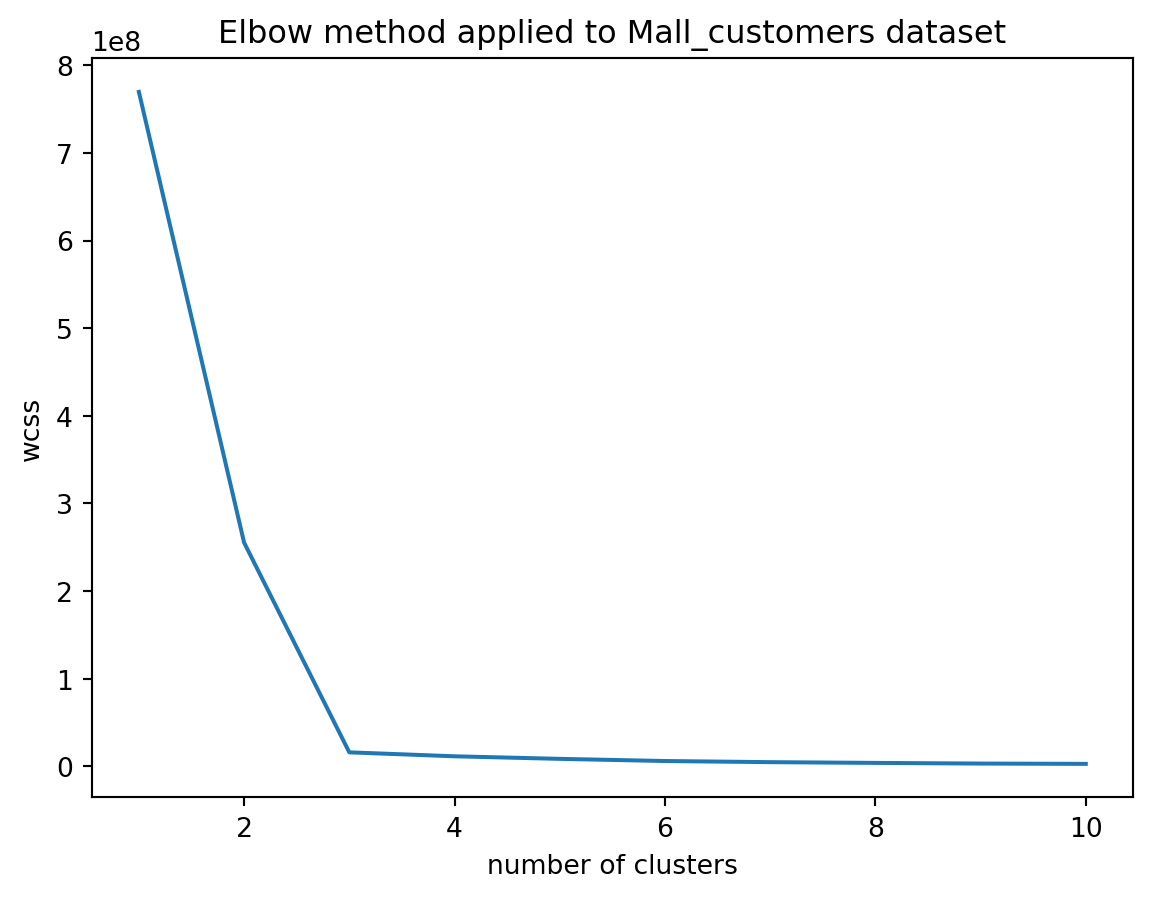
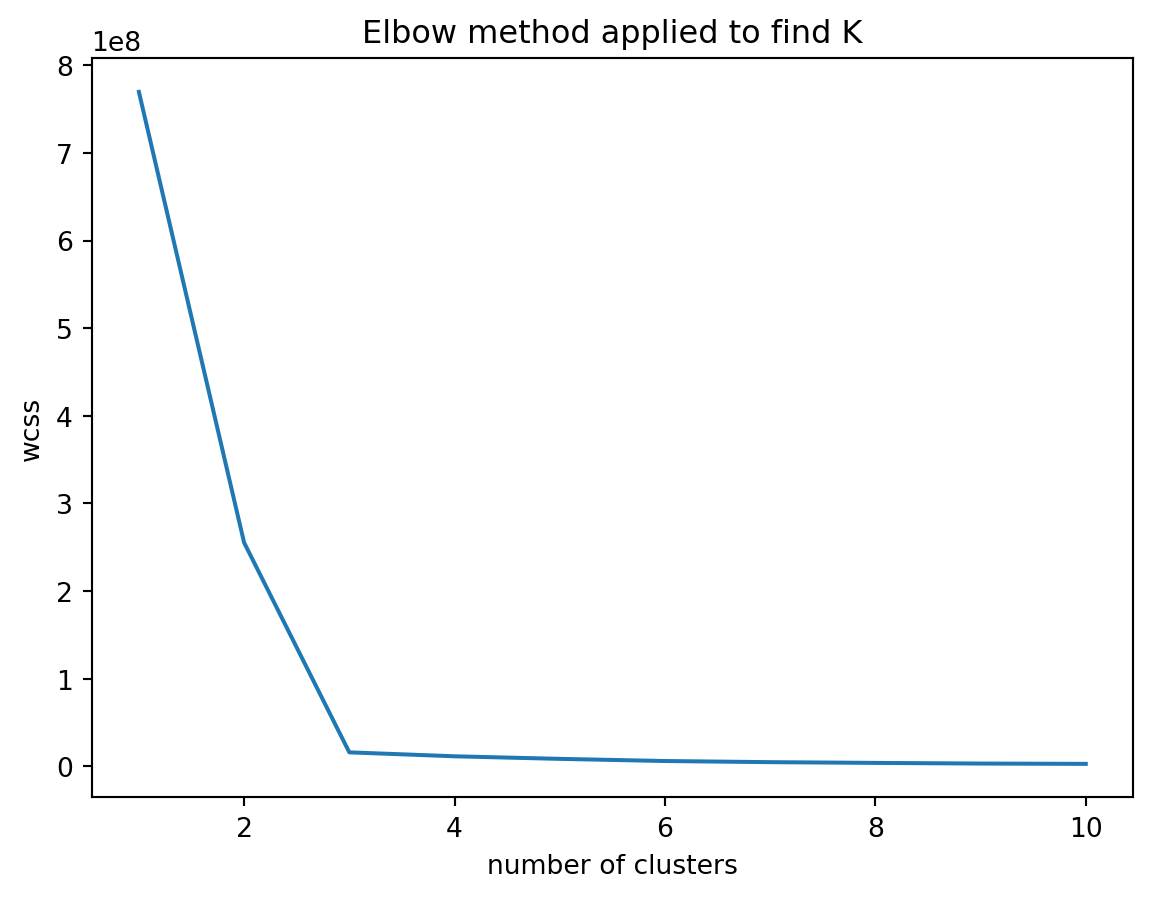
w

Changed region(s): [[0.1875, 0.0, 0.875, 0.0624]]

diff --git a/docs/clustering/1.2 k mean Clustering.html b/docs/clustering/1.2 k mean Clustering.html
@@ -7,7 +7,7 @@
 <meta name="viewport" content="width=device-width, initial-scale=1.0, user-scalable=yes">
 
 
-<title>Scikit learn with Python - K mean Clustering</title>
+<title>Scikit learn with Python - K mean Clustering with image</title>
 <style>
 code{white-space: pre-wrap;}
 span.smallcaps{font-variant: small-caps;}
@@ -346,7 +346,7 @@ pre > code.sourceCode > span > a:first-child::before { text-decoration: underlin
   </li>  
         <li>
     <a class="dropdown-item" href="../clustering/1.2 k mean Clustering.html">
- <span class="dropdown-text">K mean Clustering</span></a>
+ <span class="dropdown-text">K mean Clustering with image</span></a>
   </li>  
         <li>
     <a class="dropdown-item" href="../clustering/2 Hierarchical Clustering.html">
@@ -369,7 +369,7 @@ pre > code.sourceCode > span > a:first-child::before { text-decoration: underlin
       <button type="button" class="quarto-btn-toggle btn" data-bs-toggle="collapse" data-bs-target=".quarto-sidebar-collapse-item" aria-controls="quarto-sidebar" aria-expanded="false" aria-label="Toggle sidebar navigation" onclick="if (window.quartoToggleHeadroom) { window.quartoToggleHeadroom(); }">
         <i class="bi bi-layout-text-sidebar-reverse"></i>
       </button>
-        <nav class="quarto-page-breadcrumbs" aria-label="breadcrumb"><ol class="breadcrumb"><li class="breadcrumb-item"><a href="../clustering/0 Mall Customers.html">Clustering</a></li><li class="breadcrumb-item"><a href="../clustering/1.2 k mean Clustering.html">K mean Clustering</a></li></ol></nav>
+        <nav class="quarto-page-breadcrumbs" aria-label="breadcrumb"><ol class="breadcrumb"><li class="breadcrumb-item"><a href="../clustering/0 Mall Customers.html">Clustering</a></li><li class="breadcrumb-item"><a href="../clustering/1.2 k mean Clustering.html">K mean Clustering with image</a></li></ol></nav>
         <a class="flex-grow-1" role="button" data-bs-toggle="collapse" data-bs-target=".quarto-sidebar-collapse-item" aria-controls="quarto-sidebar" aria-expanded="false" aria-label="Toggle sidebar navigation" onclick="if (window.quartoToggleHeadroom) { window.quartoToggleHeadroom(); }">      
         </a>
     </div>
@@ -405,7 +405,7 @@ pre > code.sourceCode > span > a:first-child::before { text-decoration: underlin
           <li class="sidebar-item">
   <div class="sidebar-item-container"> 
   <a href="../clustering/1.2 k mean Clustering.html" class="sidebar-item-text sidebar-link active">
- <span class="menu-text">K mean Clustering</span></a>
+ <span class="menu-text">K mean Clustering with image</span></a>
   </div>
 </li>
           <li class="sidebar-item">
@@ -447,9 +447,9 @@ pre > code.sourceCode > span > a:first-child::before { text-decoration: underlin
 <!-- main -->
 <main class="content" id="quarto-document-content">
 
-<header id="title-block-header" class="quarto-title-block default"><nav class="quarto-page-breadcrumbs quarto-title-breadcrumbs d-none d-lg-block" aria-label="breadcrumb"><ol class="breadcrumb"><li class="breadcrumb-item"><a href="../clustering/0 Mall Customers.html">Clustering</a></li><li class="breadcrumb-item"><a href="../clustering/1.2 k mean Clustering.html">K mean Clustering</a></li></ol></nav>
+<header id="title-block-header" class="quarto-title-block default"><nav class="quarto-page-breadcrumbs quarto-title-breadcrumbs d-none d-lg-block" aria-label="breadcrumb"><ol class="breadcrumb"><li class="breadcrumb-item"><a href="../clustering/0 Mall Customers.html">Clustering</a></li><li class="breadcrumb-item"><a href="../clustering/1.2 k mean Clustering.html">K mean Clustering with image</a></li></ol></nav>
 <div class="quarto-title">
-<div class="quarto-title-block"><div><h1 class="title">K mean Clustering</h1><button type="button" class="btn code-tools-button dropdown-toggle" id="quarto-code-tools-menu" data-bs-toggle="dropdown" aria-expanded="false"><i class="bi"></i> Code</button><ul class="dropdown-menu dropdown-menu-end" aria-labelelledby="quarto-code-tools-menu"><li><a id="quarto-show-all-code" class="dropdown-item" href="javascript:void(0)" role="button">Show All Code</a></li><li><a id="quarto-hide-all-code" class="dropdown-item" href="javascript:void(0)" role="button">Hide All Code</a></li><li><hr class="dropdown-divider"></li><li><a id="quarto-view-source" class="dropdown-item" href="javascript:void(0)" role="button">View Source</a></li></ul></div></div>
+<div class="quarto-title-block"><div><h1 class="title">K mean Clustering with image</h1><button type="button" class="btn code-tools-button dropdown-toggle" id="quarto-code-tools-menu" data-bs-toggle="dropdown" aria-expanded="false"><i class="bi"></i> Code</button><ul class="dropdown-menu dropdown-menu-end" aria-labelelledby="quarto-code-tools-menu"><li><a id="quarto-show-all-code" class="dropdown-item" href="javascript:void(0)" role="button">Show All Code</a></li><li><a id="quarto-hide-all-code" class="dropdown-item" href="javascript:void(0)" role="button">Hide All Code</a></li><li><hr class="dropdown-divider"></li><li><a id="quarto-view-source" class="dropdown-item" href="javascript:void(0)" role="button">View Source</a></li></ul></div></div>
 <p class="subtitle lead">with image data</p>
 </div>
 
@@ -467,11 +467,11 @@ pre > code.sourceCode > span > a:first-child::before { text-decoration: underlin
 </header>
 
 
-<p>Using K mean Clustering to filter below picture</p>
+<p>Using K mean Clustering to replace colow on below picture</p>
 <p><img src="python logo.jpg" class="img-fluid" width="300"></p>
 <section id="load-package" class="level1" data-number="1">
 <h1 data-number="1"><span class="header-section-number">1</span> load package</h1>
-<div id="1aca0285" class="cell" data-execution_count="1">
+<div id="b171a104" class="cell" data-execution_count="1">
 <details open="" class="code-fold">
 <summary>Code</summary>
 <div class="sourceCode cell-code" id="cb1"><pre class="sourceCode python code-with-copy"><code class="sourceCode python"><span id="cb1-1"><a href="#cb1-1" aria-hidden="true" tabindex="-1"></a><span class="im">import</span> pandas <span class="im">as</span> pd</span>
@@ -491,7 +491,7 @@ pre > code.sourceCode > span > a:first-child::before { text-decoration: underlin
 <h1 data-number="2"><span class="header-section-number">2</span> data</h1>
 <section id="input-data" class="level2" data-number="2.1">
 <h2 data-number="2.1" class="anchored" data-anchor-id="input-data"><span class="header-section-number">2.1</span> input data</h2>
-<div id="c12fb8de" class="cell" data-execution_count="2">
+<div id="c93c25ae" class="cell" data-execution_count="2">
 <details open="" class="code-fold">
 <summary>Code</summary>
 <div class="sourceCode cell-code" id="cb2"><pre class="sourceCode python code-with-copy"><code class="sourceCode python"><span id="cb2-1"><a href="#cb2-1" aria-hidden="true" tabindex="-1"></a><span class="im">from</span> PIL <span class="im">import</span> Image</span>
@@ -508,7 +508,7 @@ pre > code.sourceCode > span > a:first-child::before { text-decoration: underlin
 RGB</code></pre>
 </div>
 </div>
-<div id="e9cacb41" class="cell" data-execution_count="3">
+<div id="e221275d" class="cell" data-execution_count="3">
 <details open="" class="code-fold">
 <summary>Code</summary>
 <div class="sourceCode cell-code" id="cb4"><pre class="sourceCode python code-with-copy"><code class="sourceCode python"><span id="cb4-1"><a href="#cb4-1" aria-hidden="true" tabindex="-1"></a><span class="co"># Read in the image</span></span>
@@ -527,7 +527,7 @@ RGB</code></pre>
 </div>
 </div>
 </div>
-<div id="145fb390" class="cell" data-execution_count="4">
+<div id="b8fd856c" class="cell" data-execution_count="4">
 <details open="" class="code-fold">
 <summary>Code</summary>
 <div class="sourceCode cell-code" id="cb5"><pre class="sourceCode python code-with-copy"><code class="sourceCode python"><span id="cb5-1"><a href="#cb5-1" aria-hidden="true" tabindex="-1"></a><span class="im">import</span> numpy <span class="im">as</span> np</span>
@@ -538,7 +538,7 @@ RGB</code></pre>
 <span id="cb5-6"><a href="#cb5-6" aria-hidden="true" tabindex="-1"></a>w,h,c <span class="op">=</span> sample_img.shape</span></code><button title="Copy to Clipboard" class="code-copy-button"><i class="bi"></i></button></pre></div>
 </details>
 </div>
-<div id="2f4839cc" class="cell" data-execution_count="5">
+<div id="3462b66b" class="cell" data-execution_count="5">
 <details open="" class="code-fold">
 <summary>Code</summary>
 <div class="sourceCode cell-code" id="cb6"><pre class="sourceCode python code-with-copy"><code class="sourceCode python"><span id="cb6-1"><a href="#cb6-1" aria-hidden="true" tabindex="-1"></a>w</span>
@@ -549,7 +549,7 @@ RGB</code></pre>
 <pre><code>3</code></pre>
 </div>
 </div>
-<div id="a0467241" class="cell" data-execution_count="6">
+<div id="ea432a3c" class="cell" data-execution_count="6">
 <details open="" class="code-fold">
 <summary>Code</summary>
 <div class="sourceCode cell-code" id="cb8"><pre class="sourceCode python code-with-copy"><code class="sourceCode python"><span id="cb8-1"><a href="#cb8-1" aria-hidden="true" tabindex="-1"></a>sample_img.shape</span></code><button title="Copy to Clipboard" class="code-copy-button"><i class="bi"></i></button></pre></div>
@@ -558,13 +558,13 @@ RGB</code></pre>
 <pre><code>(235, 214, 3)</code></pre>
 </div>
 </div>
-<div id="e03969c5" class="cell" data-execution_count="7">
+<div id="873d07be" class="cell" data-execution_count="7">
 <details open="" class="code-fold">
 <summary>Code</summary>
 <div class="sourceCode cell-code" id="cb10"><pre class="sourceCode python code-with-copy"><code class="sourceCode python"><span id="cb10-1"><a href="#cb10-1" aria-hidden="true" tabindex="-1"></a>sample_img <span class="op">=</span> sample_img.reshape(w<span class="op">*</span>h,<span class="dv">3</span>)</span></code><button title="Copy to Clipboard" class="code-copy-button"><i class="bi"></i></button></pre></div>
 </details>
 </div>
-<div id="22f8a83d" class="cell" data-execution_count="8">
+<div id="0997d2e6" class="cell" data-execution_count="8">
 <details open="" class="code-fold">
 <summary>Code</summary>
 <div class="sourceCode cell-code" id="cb11"><pre class="sourceCode python code-with-copy"><code class="sourceCode python"><span id="cb11-1"><a href="#cb11-1" aria-hidden="true" tabindex="-1"></a>sample_img.shape</span></code><button title="Copy to Clipboard" class="code-copy-button"><i class="bi"></i></button></pre></div>
@@ -573,7 +573,7 @@ RGB</code></pre>
 <pre><code>(50290, 3)</code></pre>
 </div>
 </div>
-<div id="5c55736e" class="cell" data-execution_count="9">
+<div id="aa366aa0" class="cell" data-execution_count="9">
 <details open="" class="code-fold">
 <summary>Code</summary>
 <div class="sourceCode cell-code" id="cb13"><pre class="sourceCode python code-with-copy"><code class="sourceCode python"><span id="cb13-1"><a href="#cb13-1" aria-hidden="true" tabindex="-1"></a>x<span class="op">=</span>sample_img</span></code><button title="Copy to Clipboard" class="code-copy-button"><i class="bi"></i></button></pre></div>
@@ -583,14 +583,14 @@ RGB</code></pre>
 </section>
 <section id="find-the-best-k-group" class="level1" data-number="3">
 <h1 data-number="3"><span class="header-section-number">3</span> find the best k group</h1>
-<div id="c82c1854" class="cell" data-execution_count="10">
+<div id="04fc0725" class="cell" data-execution_count="10">
 <details open="" class="code-fold">
 <summary>Code</summary>
 <div class="sourceCode cell-code" id="cb14"><pre class="sourceCode python code-with-copy"><code class="sourceCode python"><span id="cb14-1"><a href="#cb14-1" aria-hidden="true" tabindex="-1"></a><span class="im">from</span> sklearn.cluster <span class="im">import</span> KMeans</span>
 <span id="cb14-2"><a href="#cb14-2" aria-hidden="true" tabindex="-1"></a>wcss <span class="op">=</span> []</span></code><button title="Copy to Clipboard" class="code-copy-button"><i class="bi"></i></button></pre></div>
 </details>
 </div>
-<div id="07bf29dc" class="cell" data-execution_count="11">
+<div id="33ccdb7f" class="cell" data-execution_count="11">
 <details open="" class="code-fold">
 <summary>Code</summary>
 <div class="sourceCode cell-code" id="cb15"><pre class="sourceCode python code-with-copy"><code class="sourceCode python"><span id="cb15-1"><a href="#cb15-1" aria-hidden="true" tabindex="-1"></a><span class="co">#Iterating over 1, 2, 3, ---- 10 clusters</span></span>
@@ -601,11 +601,11 @@ RGB</code></pre>
 </details>
 </div>
 <p>The best K is 3 from the chart</p>
-<div id="c4e4b72b" class="cell" data-execution_count="12">
+<div id="bb3c9d25" class="cell" data-execution_count="12">
 <details open="" class="code-fold">
 <summary>Code</summary>
 <div class="sourceCode cell-code" id="cb16"><pre class="sourceCode python code-with-copy"><code class="sourceCode python"><span id="cb16-1"><a href="#cb16-1" aria-hidden="true" tabindex="-1"></a>plt.plot(<span class="bu">range</span>(<span class="dv">1</span>,<span class="dv">11</span>), wcss)</span>
-<span id="cb16-2"><a href="#cb16-2" aria-hidden="true" tabindex="-1"></a>plt.title(<span class="st">"Elbow method applied to Mall_customers dataset"</span>)</span>
+<span id="cb16-2"><a href="#cb16-2" aria-hidden="true" tabindex="-1"></a>plt.title(<span class="st">"Elbow method applied to find K"</span>)</span>
 <span id="cb16-3"><a href="#cb16-3" aria-hidden="true" tabindex="-1"></a>plt.xlabel(<span class="st">"number of clusters"</span>)</span>
 <span id="cb16-4"><a href="#cb16-4" aria-hidden="true" tabindex="-1"></a>plt.ylabel(<span class="st">"wcss"</span>)</span>
 <span id="cb16-5"><a href="#cb16-5" aria-hidden="true" tabindex="-1"></a>plt.show()</span></code><button title="Copy to Clipboard" class="code-copy-button"><i class="bi"></i></button></pre></div>
@@ -621,20 +621,20 @@ RGB</code></pre>
 </section>
 <section id="make-picture-into-3-colors" class="level1" data-number="4">
 <h1 data-number="4"><span class="header-section-number">4</span> make picture into 3 colors</h1>
-<div id="10bcf4a0" class="cell" data-execution_count="13">
+<div id="9722b4d2" class="cell" data-execution_count="13">
 <details open="" class="code-fold">
 <summary>Code</summary>
 <div class="sourceCode cell-code" id="cb17"><pre class="sourceCode python code-with-copy"><code class="sourceCode python"><span id="cb17-1"><a href="#cb17-1" aria-hidden="true" tabindex="-1"></a>kmeans <span class="op">=</span> KMeans(n_clusters<span class="op">=</span><span class="dv">3</span>, random_state<span class="op">=</span><span class="dv">0</span>).fit(sample_img)</span></code><button title="Copy to Clipboard" class="code-copy-button"><i class="bi"></i></button></pre></div>
 </details>
 </div>
-<div id="b6f37ef9" class="cell" data-execution_count="14">
+<div id="a2fb6ae5" class="cell" data-execution_count="14">
 <details open="" class="code-fold">
 <summary>Code</summary>
 <div class="sourceCode cell-code" id="cb18"><pre class="sourceCode python code-with-copy"><code class="sourceCode python"><span id="cb18-1"><a href="#cb18-1" aria-hidden="true" tabindex="-1"></a><span class="co"># find out which cluster each pixel belongs to.</span></span>
 <span id="cb18-2"><a href="#cb18-2" aria-hidden="true" tabindex="-1"></a>labels <span class="op">=</span> kmeans.predict(sample_img)</span></code><button title="Copy to Clipboard" class="code-copy-button"><i class="bi"></i></button></pre></div>
 </details>
 </div>
-<div id="f72726a3" class="cell" data-execution_count="15">
+<div id="d8ab59a3" class="cell" data-execution_count="15">
 <details open="" class="code-fold">
 <summary>Code</summary>
 <div class="sourceCode cell-code" id="cb19"><pre class="sourceCode python code-with-copy"><code class="sourceCode python"><span id="cb19-1"><a href="#cb19-1" aria-hidden="true" tabindex="-1"></a><span class="im">import</span> collections, numpy</span>
@@ -644,7 +644,7 @@ RGB</code></pre>
 <pre><code>Counter({0: 23099, 2: 13631, 1: 13560})</code></pre>
 </div>
 </div>
-<div id="c697ad01" class="cell" data-execution_count="16">
+<div id="2328e283" class="cell" data-execution_count="16">
 <details open="" class="code-fold">
 <summary>Code</summary>
 <div class="sourceCode cell-code" id="cb21"><pre class="sourceCode python code-with-copy"><code class="sourceCode python"><span id="cb21-1"><a href="#cb21-1" aria-hidden="true" tabindex="-1"></a>labels.shape</span></code><button title="Copy to Clipboard" class="code-copy-button"><i class="bi"></i></button></pre></div>
@@ -653,7 +653,7 @@ RGB</code></pre>
 <pre><code>(50290,)</code></pre>
 </div>
 </div>
-<div id="1919aa06" class="cell" data-execution_count="17">
+<div id="909580af" class="cell" data-execution_count="17">
 <details open="" class="code-fold">
 <summary>Code</summary>
 <div class="sourceCode cell-code" id="cb23"><pre class="sourceCode python code-with-copy"><code class="sourceCode python"><span id="cb23-1"><a href="#cb23-1" aria-hidden="true" tabindex="-1"></a>sample_img.shape</span></code><button title="Copy to Clipboard" class="code-copy-button"><i class="bi"></i></button></pre></div>
@@ -662,13 +662,13 @@ RGB</code></pre>
 <pre><code>(50290, 3)</code></pre>
 </div>
 </div>
-<div id="e1a39051" class="cell" data-execution_count="18">
+<div id="025e3799" class="cell" data-execution_count="18">
 <details open="" class="code-fold">
 <summary>Code</summary>
 <div class="sourceCode cell-code" id="cb25"><pre class="sourceCode python code-with-copy"><code class="sourceCode python"><span id="cb25-1"><a href="#cb25-1" aria-hidden="true" tabindex="-1"></a>df1 <span class="op">=</span> pd.DataFrame(sample_img, columns<span class="op">=</span>[<span class="st">'Column_A'</span>, <span class="st">'Column_B'</span>, <span class="st">'Column_C'</span>])</span></code><button title="Copy to Clipboard" class="code-copy-button"><i class="bi"></i></button></pre></div>
 </details>
 </div>
-<div id="a3e274d4" class="cell" data-execution_count="19">
+<div id="21fd62fa" class="cell" data-execution_count="19">
 <details open="" class="code-fold">
 <summary>Code</summary>
 <div class="sourceCode cell-code" id="cb26"><pre class="sourceCode python code-with-copy"><code class="sourceCode python"><span id="cb26-1"><a href="#cb26-1" aria-hidden="true" tabindex="-1"></a>df1.shape</span></code><button title="Copy to Clipboard" class="code-copy-button"><i class="bi"></i></button></pre></div>
@@ -677,13 +677,13 @@ RGB</code></pre>
 <pre><code>(50290, 3)</code></pre>
 </div>
 </div>
-<div id="262fce3f" class="cell" data-execution_count="20">
+<div id="3341996e" class="cell" data-execution_count="20">
 <details open="" class="code-fold">
 <summary>Code</summary>
 <div class="sourceCode cell-code" id="cb28"><pre class="sourceCode python code-with-copy"><code class="sourceCode python"><span id="cb28-1"><a href="#cb28-1" aria-hidden="true" tabindex="-1"></a>df1[<span class="st">'group_no'</span>]<span class="op">=</span>labels</span></code><button title="Copy to Clipboard" class="code-copy-button"><i class="bi"></i></button></pre></div>
 </details>
 </div>
-<div id="f51e85cf" class="cell" data-execution_count="21">
+<div id="96cdb9ee" class="cell" data-execution_count="21">
 <details open="" class="code-fold">
 <summary>Code</summary>
 <div class="sourceCode cell-code" id="cb29"><pre class="sourceCode python code-with-copy"><code class="sourceCode python"><span id="cb29-1"><a href="#cb29-1" aria-hidden="true" tabindex="-1"></a>df1.shape</span></code><button title="Copy to Clipboard" class="code-copy-button"><i class="bi"></i></button></pre></div>
@@ -692,7 +692,7 @@ RGB</code></pre>
 <pre><code>(50290, 4)</code></pre>
 </div>
 </div>
-<div id="99cfbb89" class="cell" data-execution_count="22">
+<div id="ce423f5f" class="cell" data-execution_count="22">
 <details open="" class="code-fold">
 <summary>Code</summary>
 <div class="sourceCode cell-code" id="cb31"><pre class="sourceCode python code-with-copy"><code class="sourceCode python"><span id="cb31-1"><a href="#cb31-1" aria-hidden="true" tabindex="-1"></a><span class="co">#green  RBG code is (0, 255, 0)</span></span>
@@ -711,13 +711,13 @@ RGB</code></pre>
 <span id="cb31-14"><a href="#cb31-14" aria-hidden="true" tabindex="-1"></a>                  )<span class="op">&gt;&gt;</span>select(<span class="op">~</span>_.group_no)</span></code><button title="Copy to Clipboard" class="code-copy-button"><i class="bi"></i></button></pre></div>
 </details>
 </div>
-<div id="9775abdf" class="cell" data-execution_count="23">
+<div id="526d77bb" class="cell" data-execution_count="23">
 <details open="" class="code-fold">
 <summary>Code</summary>
 <div class="sourceCode cell-code" id="cb32"><pre class="sourceCode python code-with-copy"><code class="sourceCode python"><span id="cb32-1"><a href="#cb32-1" aria-hidden="true" tabindex="-1"></a>output<span class="op">=</span>df2.to_numpy()</span></code><button title="Copy to Clipboard" class="code-copy-button"><i class="bi"></i></button></pre></div>
 </details>
 </div>
-<div id="fba29fee" class="cell" data-execution_count="24">
+<div id="f26df0fa" class="cell" data-execution_count="24">
 <details open="" class="code-fold">
 <summary>Code</summary>
 <div class="sourceCode cell-code" id="cb33"><pre class="sourceCode python code-with-copy"><code class="sourceCode python"><span id="cb33-1"><a href="#cb33-1" aria-hidden="true" tabindex="-1"></a>output.shape</span></code><button title="Copy to Clipboard" class="code-copy-button"><i class="bi"></i></button></pre></div>
@@ -726,13 +726,13 @@ RGB</code></pre>
 <pre><code>(50290, 3)</code></pre>
 </div>
 </div>
-<div id="360707e6" class="cell" data-execution_count="25">
+<div id="ea4b59b7" class="cell" data-execution_count="25">
 <details open="" class="code-fold">
 <summary>Code</summary>
 <div class="sourceCode cell-code" id="cb35"><pre class="sourceCode python code-with-copy"><code class="sourceCode python"><span id="cb35-1"><a href="#cb35-1" aria-hidden="true" tabindex="-1"></a>recolored_img <span class="op">=</span> output.reshape(w,h,<span class="dv">3</span>)</span></code><button title="Copy to Clipboard" class="code-copy-button"><i class="bi"></i></button></pre></div>
 </details>
 </div>
-<div id="98e46ac7" class="cell" data-execution_count="26">
+<div id="98131c35" class="cell" data-execution_count="26">
 <details open="" class="code-fold">
 <summary>Code</summary>
 <div class="sourceCode cell-code" id="cb36"><pre class="sourceCode python code-with-copy"><code class="sourceCode python"><span id="cb36-1"><a href="#cb36-1" aria-hidden="true" tabindex="-1"></a>plt.figure()</span>
@@ -747,13 +747,13 @@ RGB</code></pre>
 </div>
 </div>
 </div>
-<div id="417f0dd4" class="cell" data-execution_count="27">
+<div id="3eb70726" class="cell" data-execution_count="27">
 <details open="" class="code-fold">
 <summary>Code</summary>
 <div class="sourceCode cell-code" id="cb37"><pre class="sourceCode python code-with-copy"><code class="sourceCode python"><span id="cb37-1"><a href="#cb37-1" aria-hidden="true" tabindex="-1"></a>imsave(<span class="st">'kmeans_color_q.jpg'</span>, recolored_img)</span></code><button title="Copy to Clipboard" class="code-copy-button"><i class="bi"></i></button></pre></div>
 </details>
 </div>
-<div id="de374737" class="cell" data-execution_count="28">
+<div id="6fa210f3" class="cell" data-execution_count="28">
 <details open="" class="code-fold">
 <summary>Code</summary>
 <div class="sourceCode cell-code" id="cb38"><pre class="sourceCode python code-with-copy"><code class="sourceCode python"><span id="cb38-1"><a href="#cb38-1" aria-hidden="true" tabindex="-1"></a><span class="co"># the cluster centroids is our color palette</span></span>
@@ -765,7 +765,7 @@ RGB</code></pre>
 <span id="cb38-7"><a href="#cb38-7" aria-hidden="true" tabindex="-1"></a>    recolored_img[index] <span class="op">=</span> identified_palette[labels[index]]</span></code><button title="Copy to Clipboard" class="code-copy-button"><i class="bi"></i></button></pre></div>
 </details>
 </div>
-<div id="90a93947" class="cell" data-execution_count="29">
+<div id="9d8a26bd" class="cell" data-execution_count="29">
 <details open="" class="code-fold">
 <summary>Code</summary>
 <div class="sourceCode cell-code" id="cb39"><pre class="sourceCode python code-with-copy"><code class="sourceCode python"><span id="cb39-1"><a href="#cb39-1" aria-hidden="true" tabindex="-1"></a><span class="co"># reshape for display</span></span>
@@ -777,20 +777,20 @@ RGB</code></pre>
 </section>
 <section id="make-picture-into-4-colors" class="level1" data-number="5">
 <h1 data-number="5"><span class="header-section-number">5</span> make picture into 4 colors</h1>
-<div id="e0b68199" class="cell" data-execution_count="30">
+<div id="817121c2" class="cell" data-execution_count="30">
 <details open="" class="code-fold">
 <summary>Code</summary>
 <div class="sourceCode cell-code" id="cb40"><pre class="sourceCode python code-with-copy"><code class="sourceCode python"><span id="cb40-1"><a href="#cb40-1" aria-hidden="true" tabindex="-1"></a>kmeans <span class="op">=</span> KMeans(n_clusters<span class="op">=</span><span class="dv">4</span>, random_state<span class="op">=</span><span class="dv">0</span>).fit(sample_img)</span></code><button title="Copy to Clipboard" class="code-copy-button"><i class="bi"></i></button></pre></div>
 </details>
 </div>
-<div id="d86cdbf8" class="cell" data-execution_count="31">
+<div id="b35187ad" class="cell" data-execution_count="31">
 <details open="" class="code-fold">
 <summary>Code</summary>
 <div class="sourceCode cell-code" id="cb41"><pre class="sourceCode python code-with-copy"><code class="sourceCode python"><span id="cb41-1"><a href="#cb41-1" aria-hidden="true" tabindex="-1"></a><span class="co"># find out which cluster each pixel belongs to.</span></span>
 <span id="cb41-2"><a href="#cb41-2" aria-hidden="true" tabindex="-1"></a>labels <span class="op">=</span> kmeans.predict(sample_img)</span></code><button title="Copy to Clipboard" class="code-copy-button"><i class="bi"></i></button></pre></div>
 </details>
 </div>
-<div id="94a22100" class="cell" data-execution_count="32">
+<div id="cc629c22" class="cell" data-execution_count="32">
 <details open="" class="code-fold">
 <summary>Code</summary>
 <div class="sourceCode cell-code" id="cb42"><pre class="sourceCode python code-with-copy"><code class="sourceCode python"><span id="cb42-1"><a href="#cb42-1" aria-hidden="true" tabindex="-1"></a><span class="co"># the cluster centroids is our color palette</span></span>
@@ -802,7 +802,7 @@ RGB</code></pre>
 <span id="cb42-7"><a href="#cb42-7" aria-hidden="true" tabindex="-1"></a>    recolored_img[index] <span class="op">=</span> identified_palette[labels[index]]</span></code><button title="Copy to Clipboard" class="code-copy-button"><i class="bi"></i></button></pre></div>
 </details>
 </div>
-<div id="c3bf68db" class="cell" data-execution_count="33">
+<div id="78d10f6e" class="cell" data-execution_count="33">
 <details open="" class="code-fold">
 <summary>Code</summary>
 <div class="sourceCode cell-code" id="cb43"><pre class="sourceCode python code-with-copy"><code class="sourceCode python"><span id="cb43-1"><a href="#cb43-1" aria-hidden="true" tabindex="-1"></a><span class="co"># reshape for display</span></span>
@@ -811,7 +811,7 @@ RGB</code></pre>
 <span id="cb43-4"><a href="#cb43-4" aria-hidden="true" tabindex="-1"></a>imsave(<span class="st">'kmeans_color_q.jpg'</span>, recolored_img)</span></code><button title="Copy to Clipboard" class="code-copy-button"><i class="bi"></i></button></pre></div>
 </details>
 </div>
-<div id="49098e29" class="cell" data-execution_count="34">
+<div id="091637e9" class="cell" data-execution_count="34">
 <details open="" class="code-fold">
 <summary>Code</summary>
 <div class="sourceCode cell-code" id="cb44"><pre class="sourceCode python code-with-copy"><code class="sourceCode python"><span id="cb44-1"><a href="#cb44-1" aria-hidden="true" tabindex="-1"></a>plt.figure()</span>
@@ -1277,7 +1277,7 @@ window.document.addEventListener("DOMContentLoaded", function (event) {
 });
 </script><div class="modal fade" id="quarto-embedded-source-code-modal" tabindex="-1" aria-labelledby="quarto-embedded-source-code-modal-label" aria-hidden="true"><div class="modal-dialog modal-dialog-scrollable"><div class="modal-content"><div class="modal-header"><h5 class="modal-title" id="quarto-embedded-source-code-modal-label">Source Code</h5><button class="btn-close" data-bs-dismiss="modal"></button></div><div class="modal-body"><div class="">
 <div class="sourceCode" id="cb45" data-shortcodes="false"><pre class="sourceCode markdown code-with-copy"><code class="sourceCode markdown"><span id="cb45-1"><a href="#cb45-1" aria-hidden="true" tabindex="-1"></a><span class="co">---</span></span>
-<span id="cb45-2"><a href="#cb45-2" aria-hidden="true" tabindex="-1"></a><span class="an">title:</span><span class="co"> "K mean Clustering"</span></span>
+<span id="cb45-2"><a href="#cb45-2" aria-hidden="true" tabindex="-1"></a><span class="an">title:</span><span class="co"> "K mean Clustering with image"</span></span>
 <span id="cb45-3"><a href="#cb45-3" aria-hidden="true" tabindex="-1"></a><span class="an">subtitle:</span><span class="co"> "with image data"</span></span>
 <span id="cb45-4"><a href="#cb45-4" aria-hidden="true" tabindex="-1"></a><span class="an">execute:</span></span>
 <span id="cb45-5"><a href="#cb45-5" aria-hidden="true" tabindex="-1"></a><span class="co">  warning: false</span></span>
@@ -1293,7 +1293,7 @@ window.document.addEventListener("DOMContentLoaded", function (event) {
 <span id="cb45-15"><a href="#cb45-15" aria-hidden="true" tabindex="-1"></a><span class="co">    code-block-border-left: "#31BAE9"</span></span>
 <span id="cb45-16"><a href="#cb45-16" aria-hidden="true" tabindex="-1"></a><span class="co">---</span></span>
 <span id="cb45-17"><a href="#cb45-17" aria-hidden="true" tabindex="-1"></a></span>
-<span id="cb45-18"><a href="#cb45-18" aria-hidden="true" tabindex="-1"></a>Using K mean Clustering to filter below picture</span>
+<span id="cb45-18"><a href="#cb45-18" aria-hidden="true" tabindex="-1"></a>Using K mean Clustering to replace colow on below picture</span>
 <span id="cb45-19"><a href="#cb45-19" aria-hidden="true" tabindex="-1"></a></span>
 <span id="cb45-20"><a href="#cb45-20" aria-hidden="true" tabindex="-1"></a></span>
 <span id="cb45-21"><a href="#cb45-21" aria-hidden="true" tabindex="-1"></a><span class="al">![](python logo.jpg)</span>{width="300"}</span>
@@ -1394,7 +1394,7 @@ window.document.addEventListener("DOMContentLoaded", function (event) {
 <span id="cb45-138"><a href="#cb45-138" aria-hidden="true" tabindex="-1"></a>The best K is 3 from the chart</span>
 <span id="cb45-141"><a href="#cb45-141" aria-hidden="true" tabindex="-1"></a><span class="in">```{python}</span></span>
 <span id="cb45-142"><a href="#cb45-142" aria-hidden="true" tabindex="-1"></a>plt.plot(<span class="bu">range</span>(<span class="dv">1</span>,<span class="dv">11</span>), wcss)</span>
-<span id="cb45-143"><a href="#cb45-143" aria-hidden="true" tabindex="-1"></a>plt.title(<span class="st">"Elbow method applied to Mall_customers dataset"</span>)</span>
+<span id="cb45-143"><a href="#cb45-143" aria-hidden="true" tabindex="-1"></a>plt.title(<span class="st">"Elbow method applied to find K"</span>)</span>
 <span id="cb45-144"><a href="#cb45-144" aria-hidden="true" tabindex="-1"></a>plt.xlabel(<span class="st">"number of clusters"</span>)</span>
 <span id="cb45-145"><a href="#cb45-145" aria-hidden="true" tabindex="-1"></a>plt.ylabel(<span class="st">"wcss"</span>)</span>
 <span id="cb45-146"><a href="#cb45-146" aria-hidden="true" tabindex="-1"></a>plt.show()</span>
